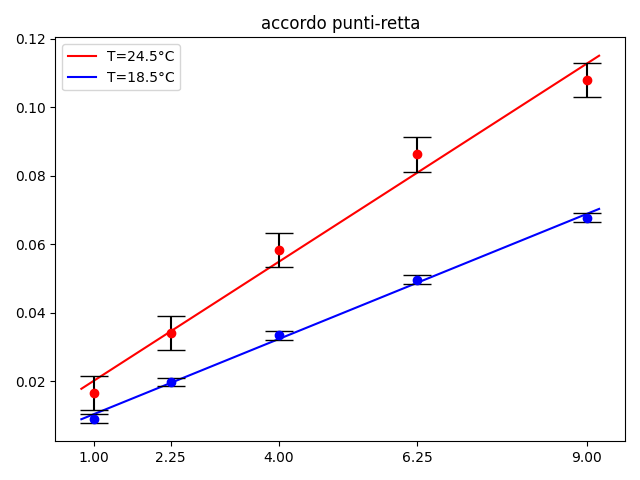
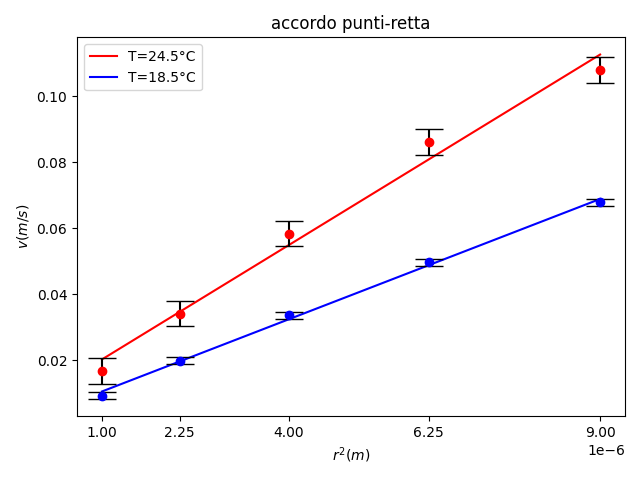
sigma

diff --git a/VISCOSITA/PYTHON/interpolazione_copy_copy.py b/VISCOSITA/PYTHON/interpolazione_copy_copy.py
@@ -33,6 +33,7 @@ x1 = raggi[1:]**2
 
 B1 = calcB(x1,y1) #(np.sum(np.power(x1, 2)) * np.sum(y1) - np.sum(x1) * np.sum(x1 * y1)) / delta1  # A
 A1 = calcA(x1,y1)
+deltaA1 = calcSigmaA(x1,y1)
 deltaB1 = calcSigmaB(x1, y1)
 sigmaY1 = calcSigmaY_y_A_BX(x1, y1)
 
@@ -47,11 +48,12 @@ x2 = raggi[1:]**2
 
 B2 = calcB(x2,y2)
 A2 = calcA(x2,y2)
+deltaA2 = calcSigmaA(x2,y2)
 deltaB2 = calcSigmaB(x2, y2)
 sigmaY2 = calcSigmaY_y_A_BX(x2, y2)
 
 x_exp2 = np.linspace(min(x2), max(x2), 100)
-y_exp2 = B2*x_exp2 + A2
+y_exp2 = B2*x_exp2  + A2
 
 
 plt.plot(x_exp1, y_exp1, color='red', label="T=24.5°C")
@@ -61,6 +63,8 @@ plt.errorbar(x2, y2, yerr=sigmaY2, fmt='o', ecolor='black', color="blue", capsiz
 plt.xticks(x2)
 plt.legend()
 plt.title('accordo punti-retta')
+plt.xlabel("$r^2 (m)$")
+plt.ylabel("$v (m/s)$")
 
 plt.tight_layout()
 plt.show()
@@ -69,8 +73,12 @@ print(f"""
         A1: {A1}
         B1: {B1}
         DELTA Y1: {sigmaY1}
+        sigmaA1: {deltaA1}
+        sigmaB1: {deltaB1}
 
         A2: {A2}
         B2: {B2}   
-        DELTA Y2: {sigmaY2}   
+        DELTA Y2: {sigmaY2}
+        sigmaA2: {deltaA2}
+        sigmaB2: {deltaB2}   
       """)
